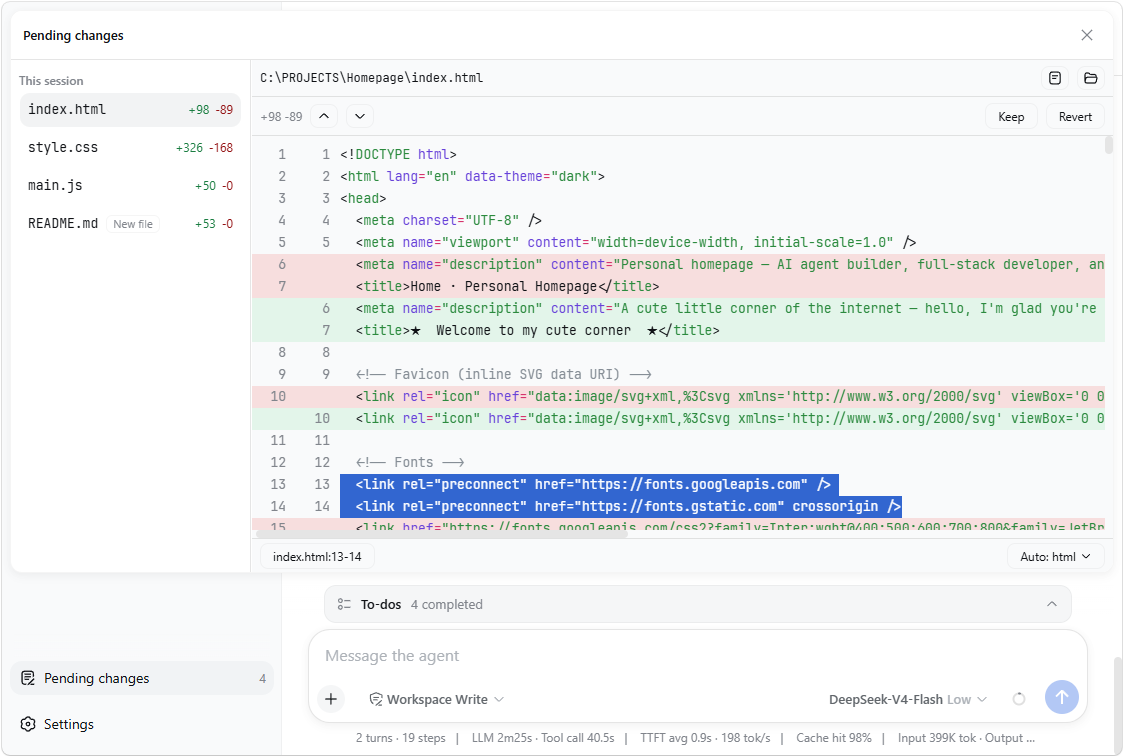
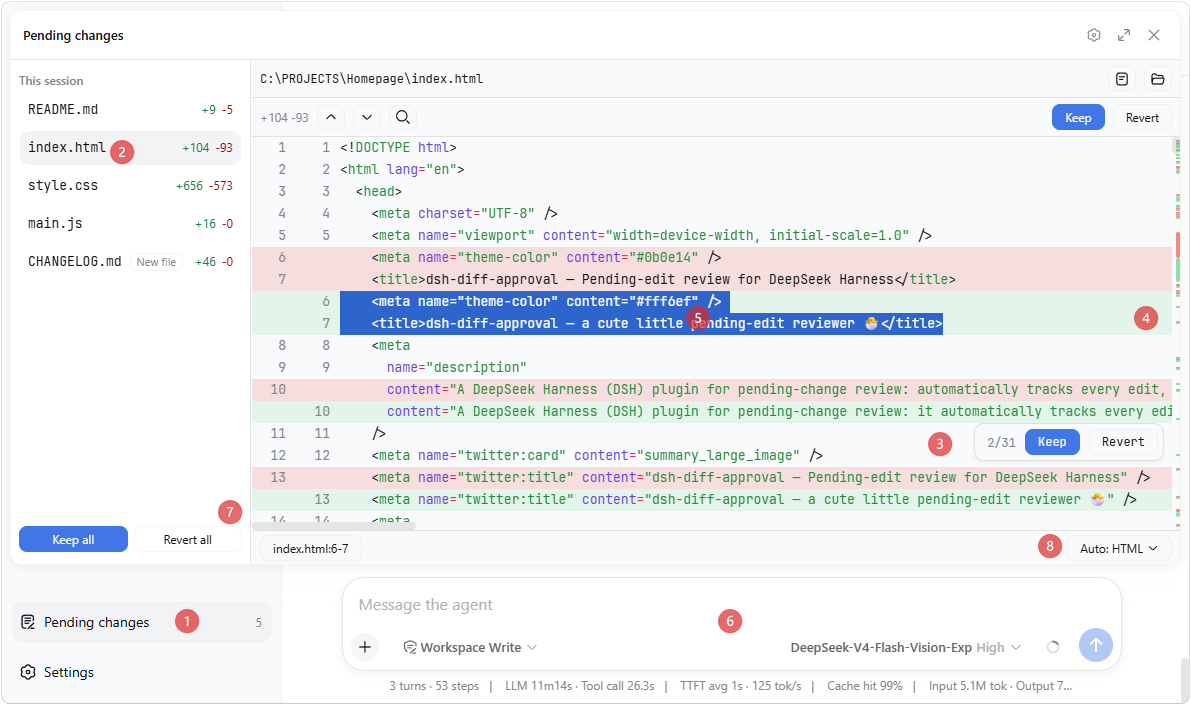
docs: annotate the README screenshots with numbered markers mapped to the feature list

diff --git a/README.md b/README.md
@@ -5,16 +5,24 @@ English | [中文](README.zh.md)
 [![npm version](https://img.shields.io/npm/v/dsh-diff-approval)](https://www.npmjs.com/package/dsh-diff-approval)
 [![CI](https://img.shields.io/github/actions/workflow/status/9087/dsh-diff-approval/ci.yml)](https://github.com/9087/dsh-diff-approval/actions)
 
-A DeepSeek Harness (DSH) plugin for pending-change review: it automatically tracks every successful `edit`, `write`, and editor (`str_replace_editor`) mutation, folds all unhandled changes into one entry per file, and shows each file's diff with Keep/Revert in the sidebar — no git involved.
+A DeepSeek Harness (DSH) plugin for pending-change review: it automatically tracks every successful `edit`, `write`, and editor (`str_replace_editor`) mutation, folds them into a single pending list in the sidebar where each file's diff can be reviewed and kept/reverted — and it can also import the workspace's version-control repository's local changes (Git / SVN / Perforce) in one click.
 
 ![Pending changes panel](docs/images/pending-panel.png)
 
+The numbered markers (① – ⑧) in the screenshot point to the matching details described below.
+
 ## ✨ Features
 
-- **Diff view**: syntax-highlighted diff with +/− counts and change-block jump (previous/next diff). Select text in the diff and the bottom status bar shows its `file:start-end` reference — click it (or press `Ctrl+L`) to copy.
-- **Highlight language**: the diff's status bar picks the highlight language — auto-detected from the file extension (shown as "Auto: …"), or overridden manually from the dropdown.
-- **Keep / Revert**: one decision per file. Keep accepts the changes; Revert writes the file back to its earliest basis (a created file is removed, a deleted tracked file is restored).
-- **Open / Reveal**: open a file in its default app, or reveal it in the file manager, right from the diff header.
+- **Diff view**: syntax-highlighted whole-file diff ⑤ with +/− counts, an overview ruler ④ on the scrollbar showing where changes sit, and an in-file search (`Ctrl+F`). Rows are virtualized, so huge files stay smooth.
+- **Block navigation & decisions**: jump between change blocks with `Ctrl+↑/↓` (or the previous/next buttons) — the focused block flashes. Hover a block to **Keep** or **Revert** just that block from a small actions frame ③ that also shows its position (e.g. "2/5").
+- **Per-file and bulk decisions**: the files in the file list ② can be kept / reverted one at a time, or **Keep all** / **Revert all** from its footer.
+- **Undo / Redo**: every keep, revert, and import is undoable with `Ctrl+Z` / `Ctrl+Y` (active while the panel is open; text inputs keep their own editing).
+- **Line references**: select text in the diff — the status bar shows its `file:start-end` reference ⑦; click it (or press `Ctrl+L`) to copy, and with the setting on it auto-pastes into the composer ⑥ and focuses it.
+- **Highlight language**: auto-detected from the file extension, or overridden from a dropdown ⑧.
+- **External changes**: files already in the pending list are monitored — if one is later modified outside the reviewed edits (another tool, an editor), the panel adopts the new content and flags the divergence.
+- **Open / Reveal**: while reviewing a file's diff, open it in its default app or reveal it in the system file manager with one click.
+- **Import workspace changes**: when the list is empty, click the button to import the workspace's local changes from **Git / SVN / Perforce** — modified, deleted, and (opt-in) untracked files. The VCS root is found by walking up from the workspace, so a workspace inside a subdirectory works too.
+- **Settings**: a "Diff Approval" section in DeepSeek Harness settings with the preferences for auto-paste on copy and whether untracked files are included when importing.
 - **Persistence**: pending state is stored per workspace at `<dshHome>/diff-approval/workspaces/<workspaceId>.json` and survives restarts — unhandled changes are still there when you come back, even in a fresh session.
 
 ## 📦 Install
@@ -47,14 +55,14 @@ Then restart `dsh web`.
 
 ## 🚀 Usage
 
-1. Work with the agent as usual — successful `edit` / `write` calls are recorded automatically.
-2. Click the **Pending changes** action at the sidebar footer (the badge shows the count).
-3. Click a file row to expand its full diff; use **Previous diff** / **Next diff** to jump between change blocks. Select text and click the reference in the bottom status bar (or press `Ctrl+L`) to copy a line reference.
-4. **Keep** accepts the file's changes; **Revert** restores its earliest basis. The row then leaves the list.
+1. Work with the agent as usual — successful `edit` / `write` / editor (`str_replace_editor`) calls are recorded automatically.
+2. Click the **Pending changes** action ① at the sidebar footer, review each file's diff, and **Keep** / **Revert**.
+3. When the list is empty, **Import workspace changes** pulls in the workspace's local Git/SVN/Perforce changes.
 
 ## 📝 Notes
 
-- Only tracked mutations (`edit`, `write`, and `str_replace_editor` editor calls) are recorded. Deletions made outside these tools (e.g. shell `rm`) are sensed only for tracked files: the entry turns "File is gone" and its Revert restores the file.
+- Only tracked mutations (`edit`, `write`, and `str_replace_editor` editor calls) are recorded automatically. Deletions made outside these tools (e.g. shell `rm`) are sensed only for tracked files: the entry turns "File is gone" and its Revert restores the file.
+- The VCS import runs read-only Git/SVN/Perforce commands through the deployment's shell executor, so the respective CLI must be on `PATH`. Importing untracked files (default off) scans the whole workspace, which can be slow on large trees.
 - Reverting a created file deletes it (the fs seam has no delete API).
 - Sessions with no workspace keep their entries memory-only; corrupt persistence files are rejected and can be deleted to reset.
 

diff --git a/README.zh.md b/README.zh.md
@@ -5,16 +5,24 @@
 [![npm 版本](https://img.shields.io/npm/v/dsh-diff-approval)](https://www.npmjs.com/package/dsh-diff-approval)
 [![CI](https://img.shields.io/github/actions/workflow/status/9087/dsh-diff-approval/ci.yml)](https://github.com/9087/dsh-diff-approval/actions)
 
-一个 DeepSeek Harness（DSH）待处理改动审核插件：自动跟踪每次成功的 `edit` / `write` / 编辑器（`str_replace_editor`）改动，把一个文件的全部未处理改动合并为一条待处理条目，在侧边栏展示每个文件的完整差异，支持保留 / 回退——全程不依赖 git。
+一个 DeepSeek Harness（DSH）待处理改动审核插件：自动跟踪每次成功的 `edit` / `write` / 编辑器（`str_replace_editor`）改动，在侧边栏整合为一个待处理列表，可逐个文件查看完整差异并保留 / 回退，也可以把工作区里版本控制仓库的本地改动一键导入（Git / SVN / Perforce）。
 
 ![待处理改动面板](docs/images/pending-panel.zh.png)
 
+截图中的序号标记（① – ⑧）指向下方对应的描述。
+
 ## ✨ 功能
 
-- **差异视图**：语法高亮与 +/− 统计，按差异块跳转（上一处 / 下一处）。选中 diff 文本后，底部状态栏显示 `文件:起-止` 引用——点击（或按 `Ctrl+L`）即可复制。
-- **高亮语言**：diff 底部状态栏可选高亮语言——默认按扩展名自动检测（显示为「自动：…」），也可手动从下拉切换。
-- **保留 / 回退**：每个文件一次决定。保留即接受；回退把文件写回最早基准（新建文件则删除，已被删除的跟踪文件则恢复）。
-- **打开 / 定位**：从 diff 头部即可在默认应用中打开文件，或在文件管理器中定位它。
+- **差异视图**：语法高亮整文件差异 ⑤ 与 +/− 统计，滚动条上有概览标尺 ④ 标示改动位置，支持文件内搜索（`Ctrl+F`）。列表按视口虚拟化渲染，大文件也能保持流畅。
+- **差异块导航与操作**：用 `Ctrl+↑/↓`（或上一处 / 下一处按钮）在差异块间跳转，当前块会高亮闪烁。悬停某一块可从小操作框 ③ 单独**保留 / 回退**该块，并显示其位置（如「2/5」）。
+- **整文件与批量操作**：文件列表 ② 里的文件可逐个保留 / 回退，也可在列表底部**全部保留** / **全部回退**。
+- **撤销 / 重做**：每次保留、回退、导入都可以用 `Ctrl+Z` / `Ctrl+Y` 撤销 / 重做（面板打开期间全局生效，输入框保留各自的编辑行为）。
+- **行引用**：选中 diff 文本后，底部状态栏显示其 `文件:起-止` 引用 ⑦——点击（或按 `Ctrl+L`）即可复制，开启设置后还会自动粘贴到消息输入框 ⑥ 并获得焦点。
+- **高亮语言**：默认按扩展名自动检测，也可通过下拉列表 ⑧ 手动切换。
+- **外部改动**：已纳入列表的文件若之后被外部修改（其它工具 / 编辑器），面板会跟进最新内容并标记分歧。
+- **打开 / 定位**：查看某个文件的差异时，可一键在默认应用中打开它，或在系统文件管理器中定位它。
+- **导入工作区改动**：列表为空时，点击按钮即可导入工作区里 **Git / SVN / Perforce** 的本地改动——已修改、已删除，以及（可选开启的）未跟踪文件。通过从工作区目录逐级向上查找 VCS 根目录，工作区在子目录里也能识别。
+- **设置**：在 DeepSeek Harness 设置里新增「改动审批」页，包含复制后自动粘贴、导入时是否包含未跟踪文件两个偏好。
 - **持久化**：待处理状态按 workspace 落盘至 `<dshHome>/diff-approval/workspaces/<workspaceId>.json`，跨重启保留——回来时未处理的改动仍在，即便换了新会话。
 
 ## 📦 安装
@@ -47,14 +55,14 @@ npx @deepseek-ai/dsh plugin --profile web add dsh-diff-approval
 
 ## 🚀 用法
 
-1. 照常和 agent 对话——成功的 `edit` / `write` 调用会自动记录。
-2. 点击侧边栏底部的 **待处理改动** 入口（角标显示数量）。
-3. 点击文件行展开该文件的完整差异，用 **上一处差异** / **下一处差异** 在差异块间跳转。选中文本后点击底部状态栏的引用（或按 `Ctrl+L`）即可复制行引用。
-4. **保留** 接受该文件的改动；**回退** 恢复其最早基准。处理后该行离开列表。
+1. 照常和 agent 对话——成功的 `edit` / `write` / 编辑器（`str_replace_editor`）调用会自动记录。
+2. 点击侧边栏底部的 **待处理改动** 入口 ①，逐文件查看差异并 **保留 / 回退**。
+3. 列表为空时，点 **导入工作区改动**，把工作区的 Git / SVN / Perforce 本地改动拉入。
 
 ## 📝 注意事项
 
-- 只记录被跟踪的改动（`edit`、`write` 与编辑器 `str_replace_editor` 调用）。通过以上工具以外的删除（如 shell `rm`）只能对已跟踪的文件感知：条目显示"文件已不存在"，回退即恢复。
+- 只自动记录被跟踪的改动（`edit`、`write` 与编辑器 `str_replace_editor` 调用）。通过以上工具以外的删除（如 shell `rm`）只能对已跟踪的文件感知：条目显示"文件已不存在"，回退即恢复。
+- VCS 导入通过部署环境的 shell 执行器运行只读的 Git / SVN / Perforce 命令，需要对应 CLI 在 `PATH` 中。导入未跟踪文件（默认关闭）会扫描整个工作区，目录很大时可能较慢。
 - 回退新建文件会删除该文件（文件系统接缝没有删除 API）。
 - 没有 workspace 的会话条目仅存内存；损坏的落盘文件会被拒绝，删除即可重置。
 
